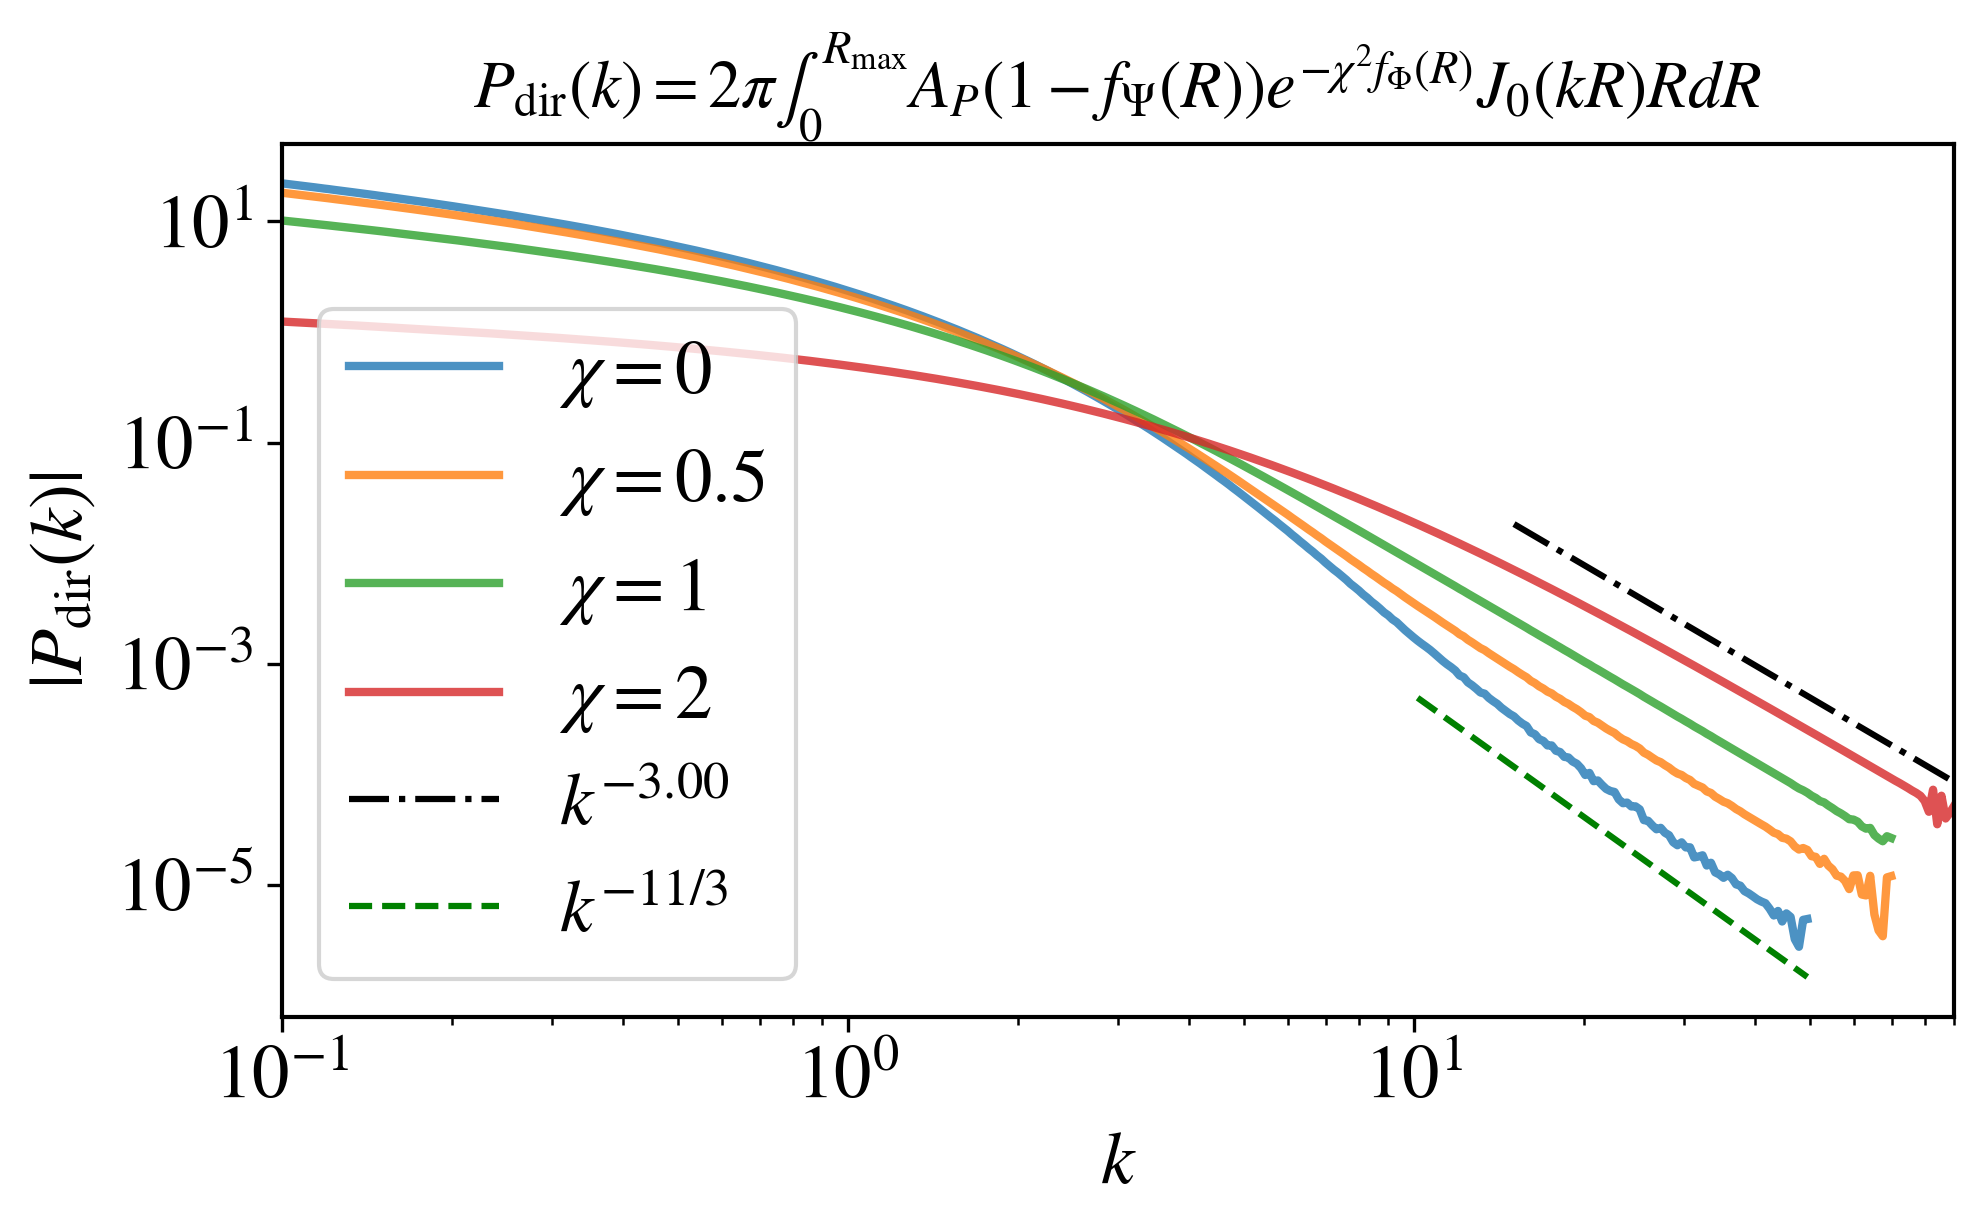
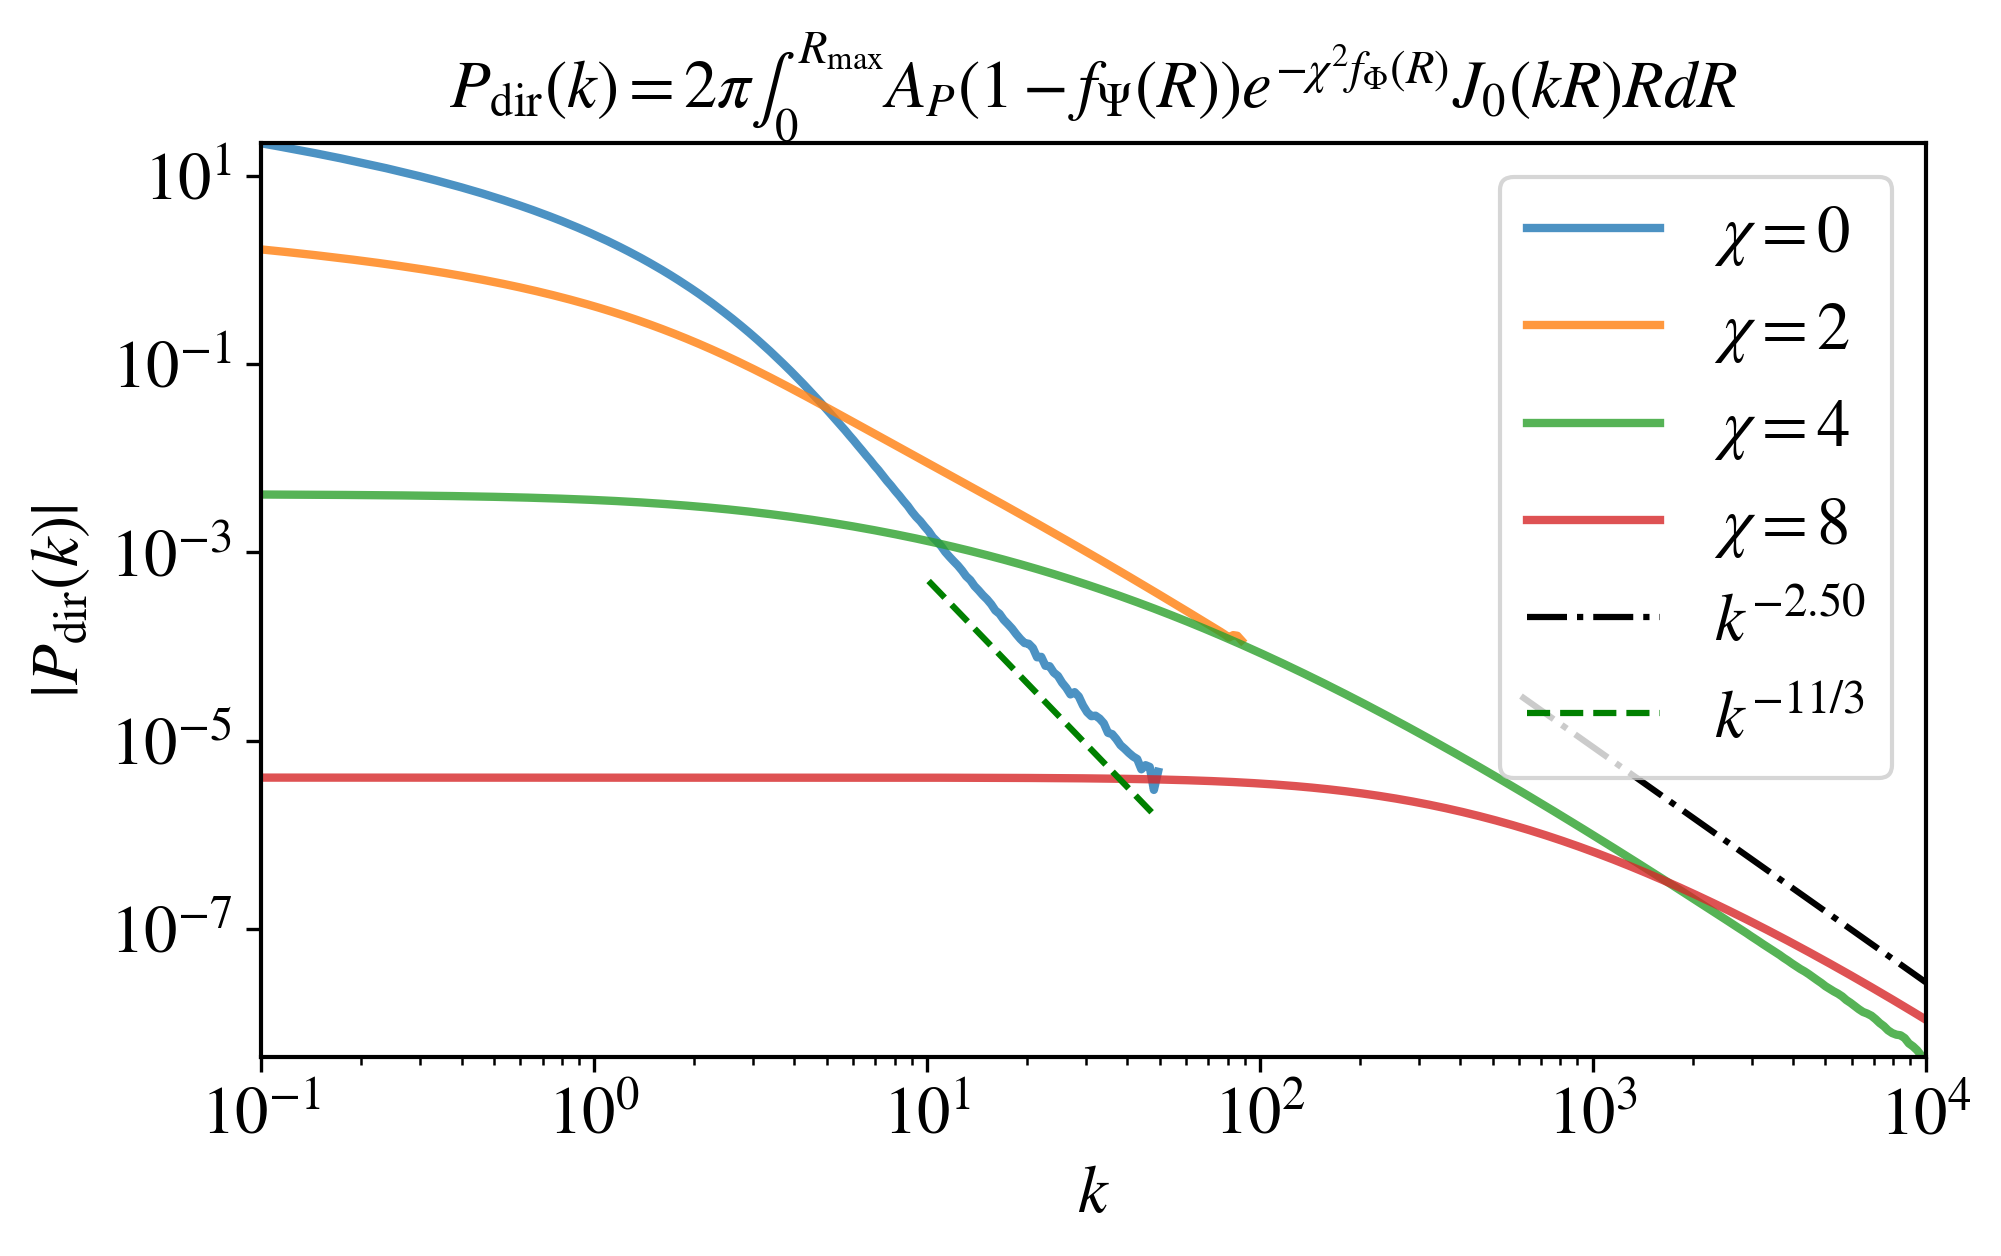
Switching to m_phi=-2.5

diff --git a/compare_measures/directional_spectrum/theor_prediction_director/henkel.py b/compare_measures/directional_spectrum/theor_prediction_director/henkel.py
@@ -5,12 +5,12 @@ from numba.extending import register_jitable
 from scipy.special import j0
 
 plt.rcParams.update({
-    "font.size": 18,
-    "axes.labelsize": 18,
-    "axes.titlesize": 18,
-    "legend.fontsize": 18,
-    "xtick.labelsize": 18,
-    "ytick.labelsize": 18,
+    "font.size": 16,
+    "axes.labelsize": 16,
+    "axes.titlesize": 16,
+    "legend.fontsize": 16,
+    "xtick.labelsize": 16,
+    "ytick.labelsize": 16,
     "axes.linewidth": 1.0,
     "lines.linewidth": 2.0,
     "mathtext.fontset": "stix",
@@ -53,7 +53,7 @@ def compute_Pdir_parallel(k_values, R, j0_matrix, mPhi, rphi, chi, mpsi, R0, A_P
     
     return results
 
-def compute_Pdir(k, integrand, Rmax, n_points=50000, Rmin=1e-6):
+def compute_Pdir(k, integrand, Rmax, n_points=50000, Rmin=1e-8):
     R = np.logspace(np.log10(Rmin), np.log10(Rmax), n_points)
     integrand_values = integrand(R, k)
     val = trapezoidal_integral(integrand_values, R)
@@ -64,15 +64,15 @@ def main():
     Rmax = 1024*2#256.0
 
     rphi = 0.8#33.8
-    chi_values = [0, 0.5, 1, 2]#0.8, 2.0, 5.0]
+    chi_values = [0, 2,4, 8]#0.8, 2.0, 5.0]
 
     mpsi = 5.0/3.0
     R0   = 1#55.4
     A_P  = 1
 
-    k_values = np.logspace(np.log10(0.1), np.log10(90.0), 400)
+    k_values = np.logspace(np.log10(0.1), np.log10(10000.0), 400)
 
-    mPhi_values = [1]#[5.0/3.0, 1.0]
+    mPhi_values = [0.5]#[5.0/3.0, 1.0]
     colors_mPhi53 = ['#1f77b4', '#ff7f0e', '#2ca02c', '#d62728', '#9467bd', '#8c564b']
     colors_mPhi1 = ['#e377c2', '#17becf', '#bcbd22', '#ff9896', '#c5b0d5', '#ffbb78']
     linestyles = ['-', '--']
@@ -86,6 +86,9 @@ def main():
     kR_matrix = np.outer(k_values, R)
     j0_matrix = j0(kR_matrix)
     
+    all_k_plotted = []
+    all_Pdir_plotted = []
+    
     for i, mPhi in enumerate(mPhi_values):
         for j, chi in enumerate(chi_values):
             Pdir = compute_Pdir_parallel(k_values, R, j0_matrix, mPhi, rphi, chi, mpsi, R0, A_P)
@@ -98,41 +101,64 @@ def main():
             
             if chi < 0.1:
                 k_mask = k_values <= 50
-            elif chi<1.5:
-                k_mask = k_values <= 70
+            elif chi<2.5:
+                k_mask = k_values <= 90
             else:
                 k_mask = np.ones(len(k_values), dtype=bool)
             
-            plt.loglog(k_values[k_mask], np.abs(Pdir[k_mask]), color=color, 
+            k_plot = k_values[k_mask]
+            Pdir_plot = np.abs(Pdir[k_mask])
+            valid = (np.isfinite(Pdir_plot)) & (Pdir_plot > 0)
+            
+            if np.any(valid):
+                all_k_plotted.extend(k_plot[valid])
+                all_Pdir_plotted.extend(Pdir_plot[valid])
+            
+            plt.loglog(k_plot[valid], Pdir_plot[valid], color=color, 
                       linestyle=linestyles[i], lw=2, alpha=0.8,
                       label=rf"$\chi={chi}$")#$m_\psi={mpsi:.1f}$, $m_\Phi={mPhi:.1f}$, 
 
     k0 = 5.0
     i0 = np.argmin(np.abs(k_values - k0))
-    mask_k_gt_1 = k_values > 15
+    mask_k_gt_1 = k_values > 600
     mask_k_gt_2 = (k_values > 10) & (k_values < 50)
     
     for i, mPhi in enumerate(mPhi_values):
         slope_ref = -(mPhi + 2.0)
         Pdir_ref = all_Pdir[i * len(chi_values)]
-        ref = np.abs(Pdir_ref[i0]) * (k_values / k_values[i0])**(slope_ref)*15
-        plt.loglog(k_values[mask_k_gt_1], ref[mask_k_gt_1], "-.", color="black", lw=1.5, alpha=1,
+        ref = np.abs(Pdir_ref[i0]) * (k_values / k_values[i0])**(slope_ref)*150
+        ref_plot = ref[mask_k_gt_1]
+        k_ref_plot = k_values[mask_k_gt_1]
+        valid_ref = (np.isfinite(ref_plot)) & (ref_plot > 0)
+        
+        if np.any(valid_ref):
+            all_k_plotted.extend(k_ref_plot[valid_ref])
+            all_Pdir_plotted.extend(ref_plot[valid_ref])
+        
+        plt.loglog(k_ref_plot[valid_ref], ref_plot[valid_ref], "-.", color="black", lw=1.5, alpha=1,
                    label=rf"$k^{{{slope_ref:.2f}}}$" if i == 0 else "")
     
     slope_11_3 = -11.0/3.0
     Pdir_ref_11_3 = all_Pdir[0]
     ref_11_3 = np.abs(Pdir_ref_11_3[i0]) * (k_values / k_values[i0])**(slope_11_3)*0.2
-    plt.loglog(k_values[mask_k_gt_2], ref_11_3[mask_k_gt_2], "--", color="green", lw=1.5, alpha=1,
+    ref_11_3_plot = ref_11_3[mask_k_gt_2]
+    k_ref_11_3_plot = k_values[mask_k_gt_2]
+    valid_ref_11_3 = (np.isfinite(ref_11_3_plot)) & (ref_11_3_plot > 0)
+    
+    if np.any(valid_ref_11_3):
+        all_k_plotted.extend(k_ref_11_3_plot[valid_ref_11_3])
+        all_Pdir_plotted.extend(ref_11_3_plot[valid_ref_11_3])
+    
+    plt.loglog(k_ref_11_3_plot[valid_ref_11_3], ref_11_3_plot[valid_ref_11_3], "--", color="green", lw=1.5, alpha=1,
                label=r"$k^{-11/3}$")
 
-    valid_mask = np.ones(len(k_values), dtype=bool)
-    for Pdir in all_Pdir:
-        valid_mask &= (np.isfinite(np.abs(Pdir)) & (np.abs(Pdir) > 0))
-    
-    if np.any(valid_mask):
-        k_min = k_values[valid_mask].min()
-        k_max = k_values[valid_mask].max()
+    if len(all_k_plotted) > 0 and len(all_Pdir_plotted) > 0:
+        k_min = np.min(all_k_plotted)
+        k_max = np.max(all_k_plotted)
+        Pdir_min = np.min(all_Pdir_plotted)
+        Pdir_max = np.max(all_Pdir_plotted)
         plt.xlim(k_min, k_max)
+        plt.ylim(Pdir_min, Pdir_max)
 
     plt.xlabel(r"$k$")
     plt.ylabel(r"$|P_{\rm dir}(k)|$")
